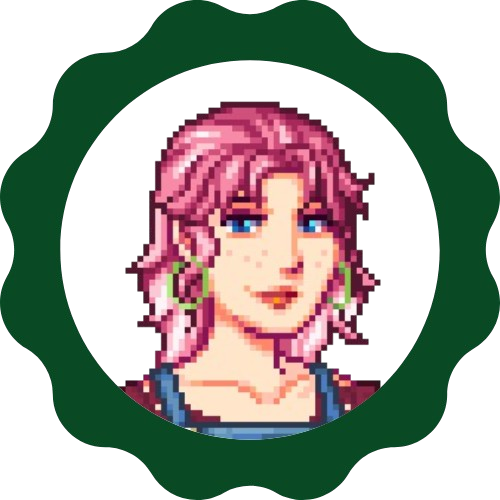
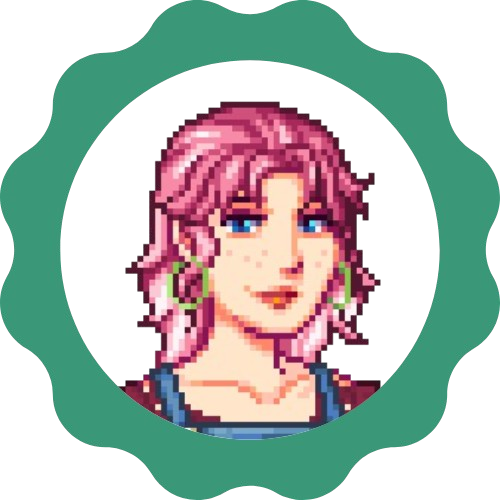
change green colour

diff --git a/style.css b/style.css
@@ -9,8 +9,8 @@
     --border-color: #ddd;
     --link-color: #983a5a;
     --accent-color: #983a5a;
-    --nav-bg: #094a25;
-    --footer-text: #094a25;
+    --nav-bg: #3A9878;
+    --footer-text: #3A9878;
 }
 
 body.dark-mode {
@@ -23,8 +23,8 @@ body.dark-mode {
     --border-color: #444;
     --link-color: #e89bb0;
     --accent-color: #e89bb0;
-    --nav-bg: #0d3d1f;
-    --footer-text: #98fb98;
+    --nav-bg: #2a7d63;
+    --footer-text: #7dd5ba;
 }
 
 body {
